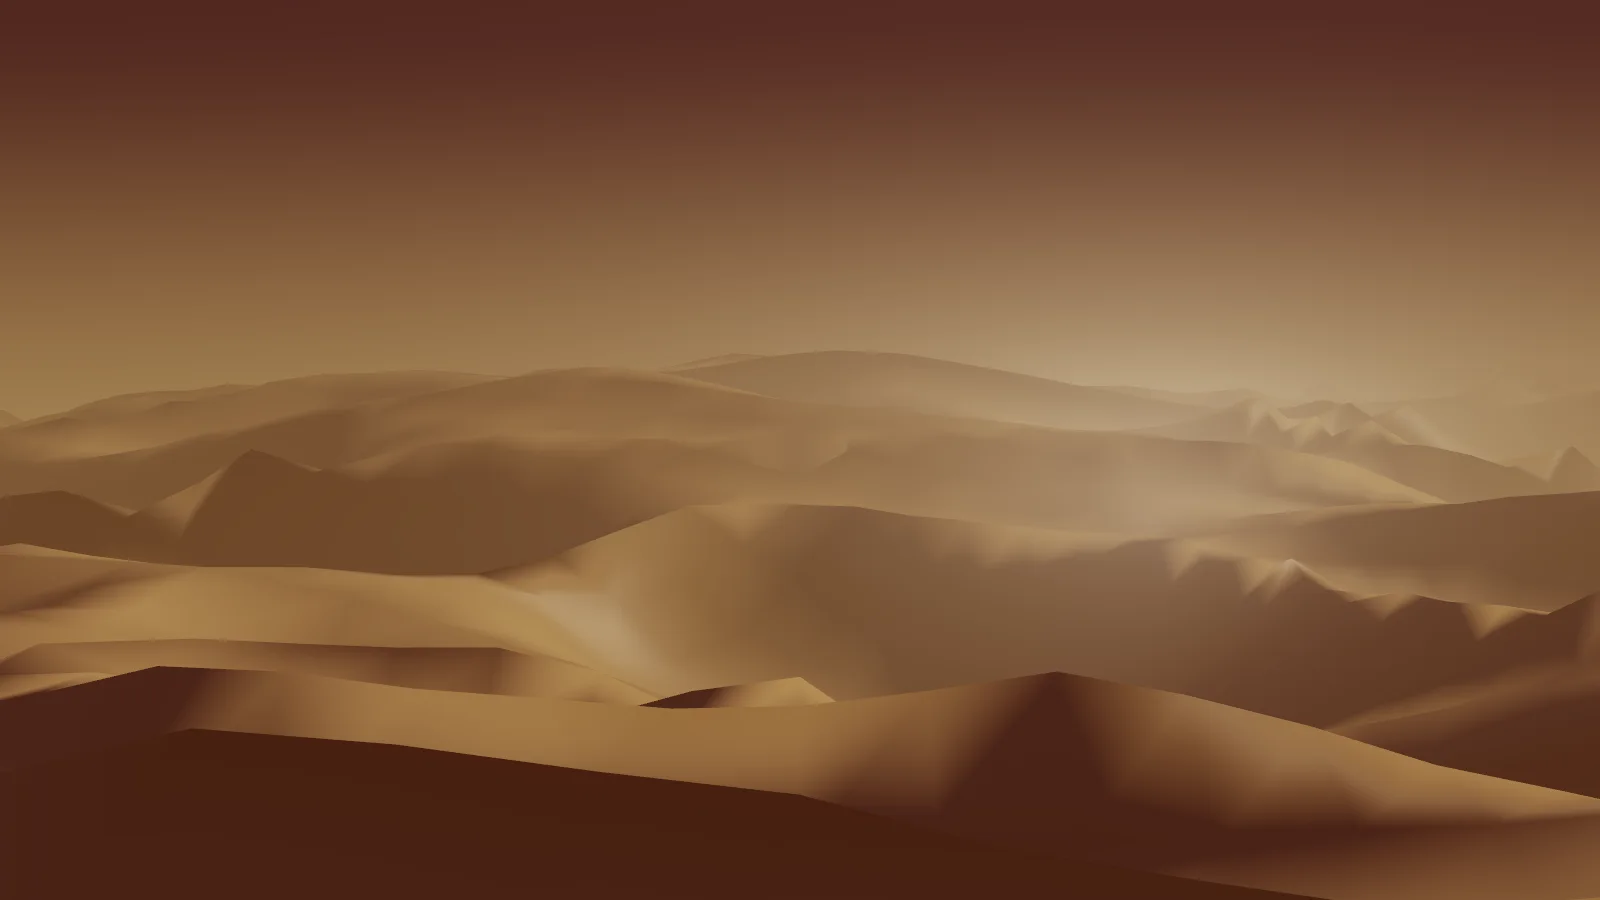
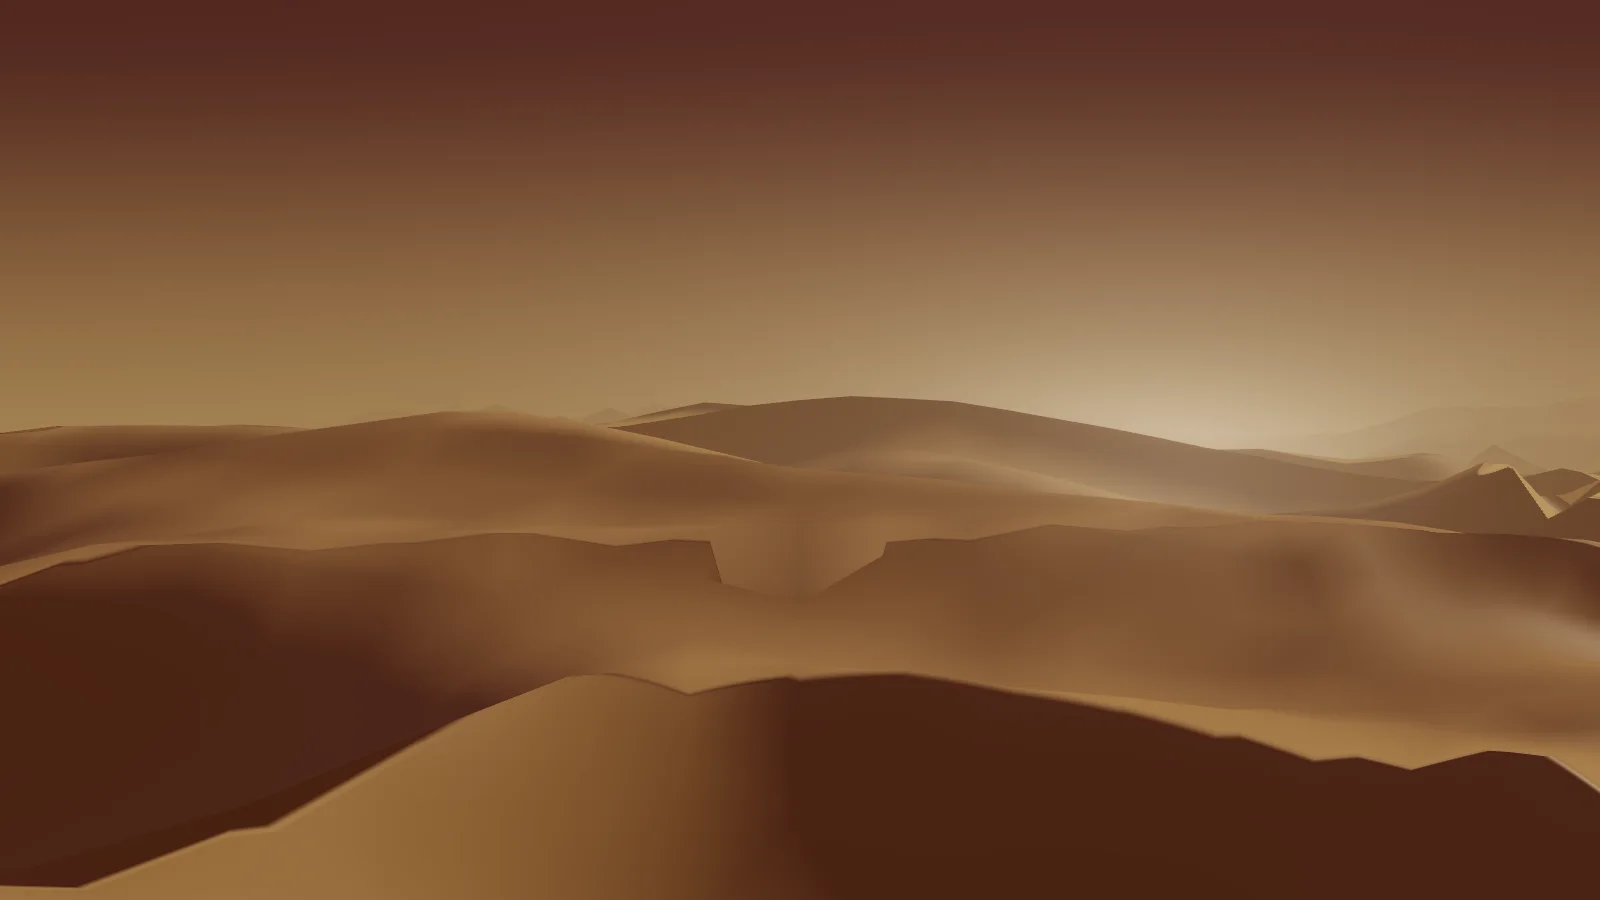
feat(home): build S3 the turn
Dunes pin behind the film's last stretch, so the film dissolves straight into
them. Scroll drives the camera, the wash to frontier light and the headline. The
manifesto moves here as the statement, and its e2e starts from above it.

Changed region(s): [[0.0, 0.4044, 1.0, 1.0]]

diff --git a/components/sections/signature/the-turn/turn-stage.tsx b/components/sections/signature/the-turn/turn-stage.tsx
@@ -1,0 +1,111 @@
+'use client'
+
+import cn from 'clsx'
+import { useRect } from 'hamo'
+import { useRef } from 'react'
+
+import { useDeviceTier } from '@/components/motion/device-tier'
+import { useScrollProgress } from '@/components/motion/use-scroll-progress'
+import { useLazyWorld } from '@/components/three/use-lazy-world'
+import { ViewportScene } from '@/components/three/viewport-scene'
+import { Eyebrow, Heading } from '@/components/ui/heading'
+import { Image } from '@/components/ui/image'
+
+import s from './the-turn.module.css'
+
+const loadWorld = () => import('./turn-world').then((mod) => mod.TurnWorld)
+
+/**
+ * The stage pins this much (in viewports) before the film has left: it starts
+ * behind the film's last stretch, so the film dissolves straight into it.
+ */
+const FILM_OVERLAP = 0.14
+
+function setTurn(stage: HTMLElement | null, progress: number) {
+  stage?.style.setProperty('--turn', progress.toFixed(2))
+}
+
+/**
+ * Pinned dunes. `--turn` (0–1, quantized) drives the CSS: the headline's
+ * entrance and the wash from the nebula's violet to frontier gold. Tier 0 leaves
+ * it at the stylesheet's 1, so the static picture is the end state.
+ */
+export function TurnStage({
+  eyebrow,
+  heading,
+}: {
+  eyebrow: string
+  heading: string
+}) {
+  const { state } = useDeviceTier()
+  const { setNearRef, World } = useLazyWorld(loadWorld)
+  const [setTrackRectRef, track] = useRect({ ignoreTransform: true })
+  const stageRef = useRef<HTMLDivElement>(null)
+  const glideRef = useRef(0)
+
+  const setProgressRef = useScrollProgress(
+    (progress) => {
+      const turn = Math.max(0, (progress - FILM_OVERLAP) / (1 - FILM_OVERLAP))
+      glideRef.current = turn
+      setTurn(stageRef.current, turn)
+    },
+    {
+      start: 'top top',
+      end: 'bottom bottom',
+      disabled: state?.motionMedia !== true,
+    }
+  )
+
+  return (
+    <section
+      ref={(element) => {
+        setTrackRectRef(element)
+        setProgressRef(element)
+      }}
+      className={s.track}
+      data-static={state?.motionMedia === false || undefined}
+      aria-labelledby="turn-title"
+      data-theme="frontier"
+    >
+      <div
+        ref={stageRef}
+        className={s.stage}
+        data-scrubbed={state?.motionMedia === true || undefined}
+      >
+        <div ref={setNearRef} className={s.scene} aria-hidden="true">
+          <ViewportScene
+            id="dunes"
+            enabled={World !== null}
+            className="h-full w-full"
+            pinTrack={track}
+            fallback={
+              <>
+                <div className="absolute inset-0 desktop-only">
+                  <Image src="/posters/dunes.webp" alt="" fill sizes="100vw" />
+                </div>
+                <div className="absolute inset-0 mobile-only">
+                  <Image
+                    src="/posters/dunes-mobile.webp"
+                    alt=""
+                    fill
+                    sizes="100vw"
+                  />
+                </div>
+              </>
+            }
+          >
+            {World && <World glideRef={glideRef} />}
+          </ViewportScene>
+        </div>
+        <div className={s.wash} aria-hidden="true" />
+        <div className={s.exit} aria-hidden="true" />
+        <div className={cn(s.copy, 'dr-layout-block')}>
+          <Eyebrow>{eyebrow}</Eyebrow>
+          <Heading as="h2" id="turn-title" size="display" className={s.heading}>
+            {heading}
+          </Heading>
+        </div>
+      </div>
+    </section>
+  )
+}

diff --git a/components/sections/signature/the-turn/the-turn.module.css b/components/sections/signature/the-turn/the-turn.module.css
@@ -1,0 +1,109 @@
+@layer components {
+  .track {
+    position: relative;
+    z-index: 0;
+    color: var(--color-starlight);
+  }
+
+  .stage {
+    --turn: 1;
+
+    position: relative;
+    display: flex;
+    min-height: 100svh;
+    align-items: flex-start;
+    overflow: clip;
+    isolation: isolate;
+    padding-block: calc(var(--header-height) + mobile-vw(48px)) mobile-vw(64px);
+
+    @media (--desktop) {
+      padding-block: calc(var(--header-height) + desktop-vw(72px))
+        desktop-vw(64px);
+    }
+  }
+
+  /* Starts on the film's last frame: dark and unturned until scroll says so. */
+  .stage[data-scrubbed] {
+    --turn: 0;
+  }
+
+  @media (--motion-ok) {
+    .track {
+      /* 14% of the track overlaps the film's last 84svh: see FILM_OVERLAP. */
+      height: 240svh;
+      margin-top: -140svh;
+    }
+
+    .track[data-static] {
+      height: auto;
+      margin-top: 0;
+    }
+
+    .stage {
+      position: sticky;
+      top: 0;
+      height: 100svh;
+    }
+  }
+
+  .scene {
+    position: absolute;
+    inset: 0;
+    z-index: -1;
+  }
+
+  /* Violet at the start of the turn, warm frontier light at the end. Both layers
+     are opacity only, from --turn. */
+  .wash {
+    position: absolute;
+    inset: 0;
+    z-index: -1;
+    background:
+      linear-gradient(
+        in oklab to bottom,
+        color-mix(in oklab, var(--color-void-deep) 62%, transparent),
+        transparent 55%
+      ),
+      radial-gradient(
+        in oklab 120% 70% at 72% 62%,
+        color-mix(in oklab, var(--color-gold-frontier) 30%, transparent),
+        transparent 70%
+      );
+    opacity: var(--turn);
+  }
+
+  /* The bottom edge eases into the frontier band under it. */
+  .exit {
+    position: absolute;
+    right: 0;
+    bottom: 0;
+    left: 0;
+    z-index: -1;
+    height: 22svh;
+    background: linear-gradient(
+      in oklab to top,
+      var(--color-void-deep),
+      transparent
+    );
+    opacity: var(--turn);
+  }
+
+  .copy {
+    display: flex;
+    flex-direction: column;
+    align-items: flex-start;
+    gap: mobile-vw(16px);
+    opacity: clamp(0, calc((var(--turn) - 0.1) * 4), 1);
+    transform: translateY(
+      calc((1 - clamp(0, calc((var(--turn) - 0.1) * 4), 1)) * 2.5rem)
+    );
+
+    @media (--desktop) {
+      gap: desktop-vw(20px);
+    }
+  }
+
+  .heading {
+    max-width: 15ch;
+  }
+}

diff --git a/e2e/progress-text.e2e.ts b/e2e/progress-text.e2e.ts
@@ -1,6 +1,20 @@
 import type { Page } from '@playwright/test'
 import { expect, test } from '@playwright/test'
 
+// The statement sits under S3, a long way down the homepage: start a screen
+// above it, as a visitor arriving there would.
+const startAboveStatement = (page: Page) =>
+  page
+    .locator('[aria-hidden="true"]', { hasText: 'You own everything' })
+    .evaluate((element) => {
+      window.scrollTo(
+        0,
+        element.getBoundingClientRect().top +
+          window.scrollY -
+          window.innerHeight
+      )
+    })
+
 const wordOpacities = (page: Page) =>
   page
     .locator('[aria-hidden="true"]', { hasText: 'You own everything' })
@@ -21,6 +35,8 @@ test('homepage manifesto words reveal across the scroll to the page bottom', asy
     .toBeGreaterThan(3)
   expect(new Set(await wordOpacities(page))).toEqual(new Set([0.5]))
 
+  await startAboveStatement(page)
+  await page.waitForTimeout(300)
   await page.mouse.move(640, 400)
   const samples: number[][] = []
   for (let i = 0; i < 40; i++) {

diff --git a/components/sections/signature/the-turn/index.tsx b/components/sections/signature/the-turn/index.tsx
@@ -1,0 +1,24 @@
+import { ProgressText } from '@/components/effects/progress-text'
+import { turnCopy } from '@/components/sections/signature/copy'
+import { Container, Section } from '@/components/ui/section'
+
+import { TurnStage } from './turn-stage'
+
+/**
+ * S3. The dunes at scroll-linked camera, the palette turning from the nebula to
+ * frontier light, then the statement on the frontier theme below.
+ */
+export function TheTurn() {
+  return (
+    <>
+      <TurnStage eyebrow={turnCopy.eyebrow} heading={turnCopy.heading} />
+      <Section theme="frontier" spacing="lg" aria-label="Why HONEST">
+        <Container>
+          <p className="max-w-[24ch] h2 text-balance">
+            <ProgressText>{turnCopy.statement}</ProgressText>
+          </p>
+        </Container>
+      </Section>
+    </>
+  )
+}

diff --git a/components/sections/signature/home-sections.tsx b/components/sections/signature/home-sections.tsx
@@ -4,6 +4,7 @@ import { Hero } from './hero'
 import { HowItWorks } from './how-it-works'
 import { Packages } from './packages'
 import { ScrollFilm } from './scroll-film'
+import { TheTurn } from './the-turn'
 
 /**
  * The homepage story, S1–S7. Shared by `/` and `/lab/home`, which renders it
@@ -14,6 +15,7 @@ export function HomeSections() {
     <>
       <Hero />
       <ScrollFilm />
+      <TheTurn />
       <GoldenPlatter />
       <HowItWorks />
       <Packages />

diff --git a/components/sections/signature/the-turn/turn-world.tsx b/components/sections/signature/the-turn/turn-world.tsx
@@ -1,0 +1,9 @@
+'use client'
+
+import type { RefObject } from 'react'
+
+import { DuneTerrain } from '@/components/three/dune-terrain'
+
+export function TurnWorld({ glideRef }: { glideRef: RefObject<number> }) {
+  return <DuneTerrain cameraGlideRef={glideRef} />
+}
